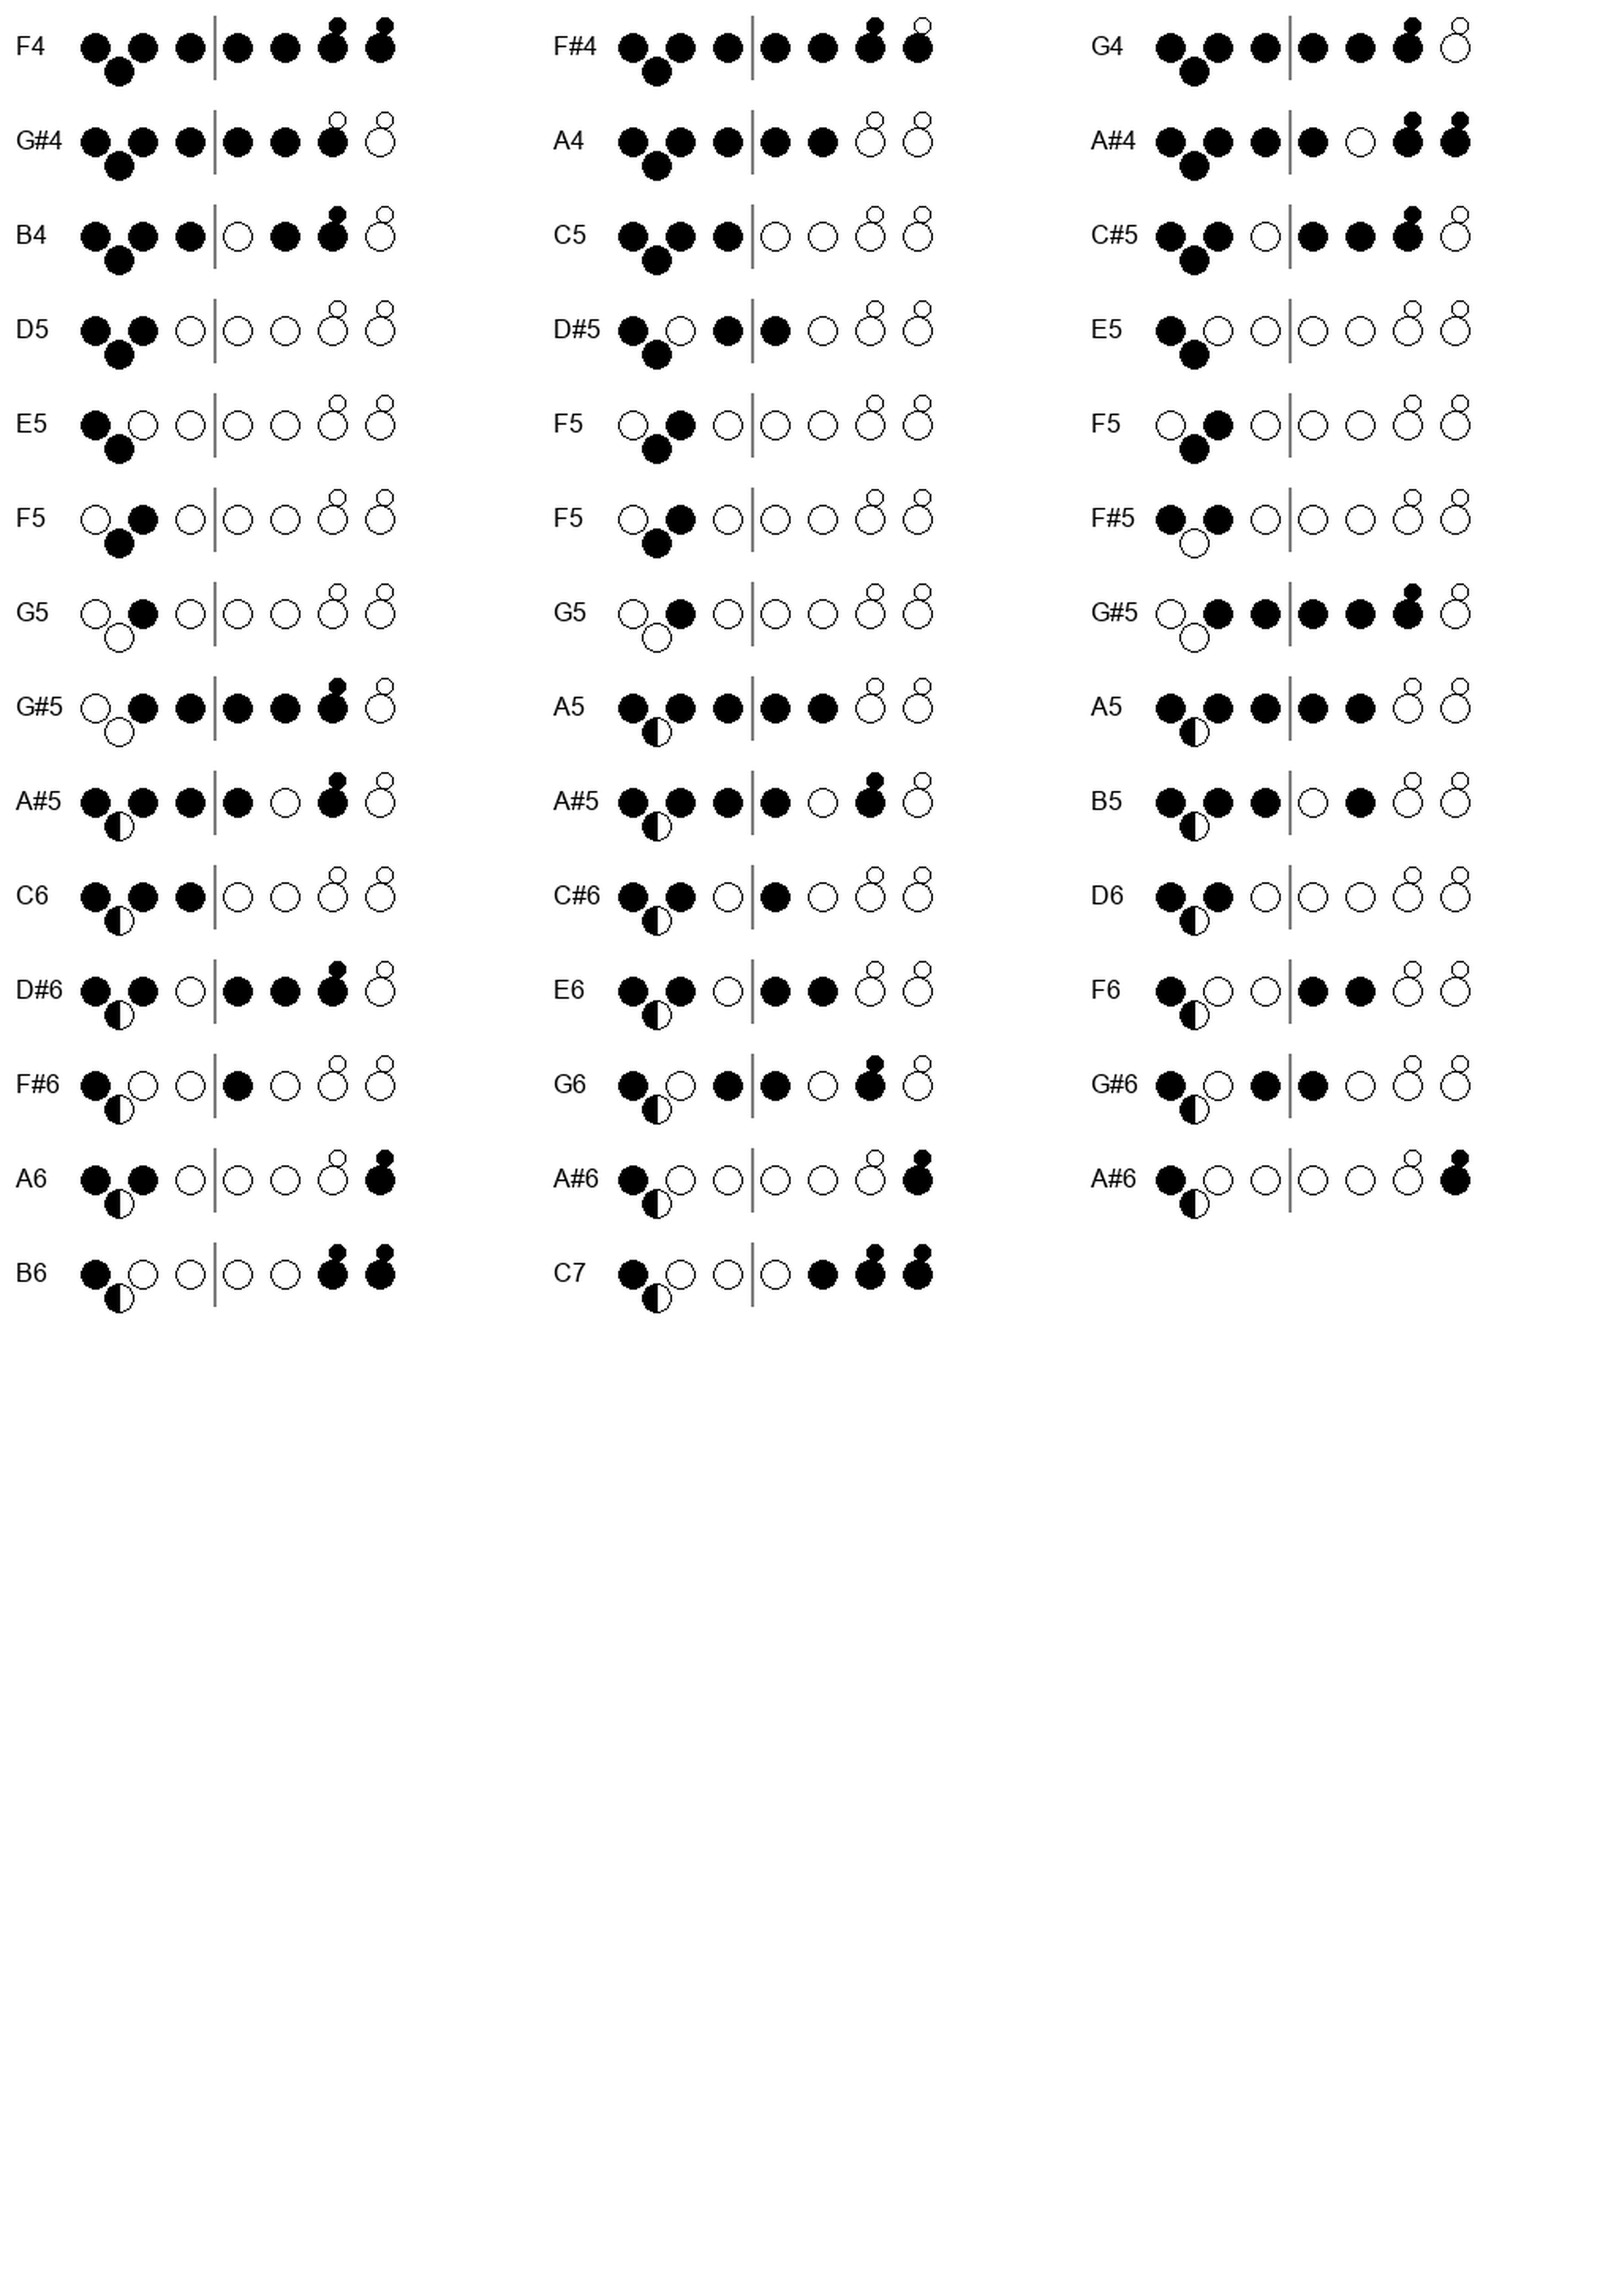
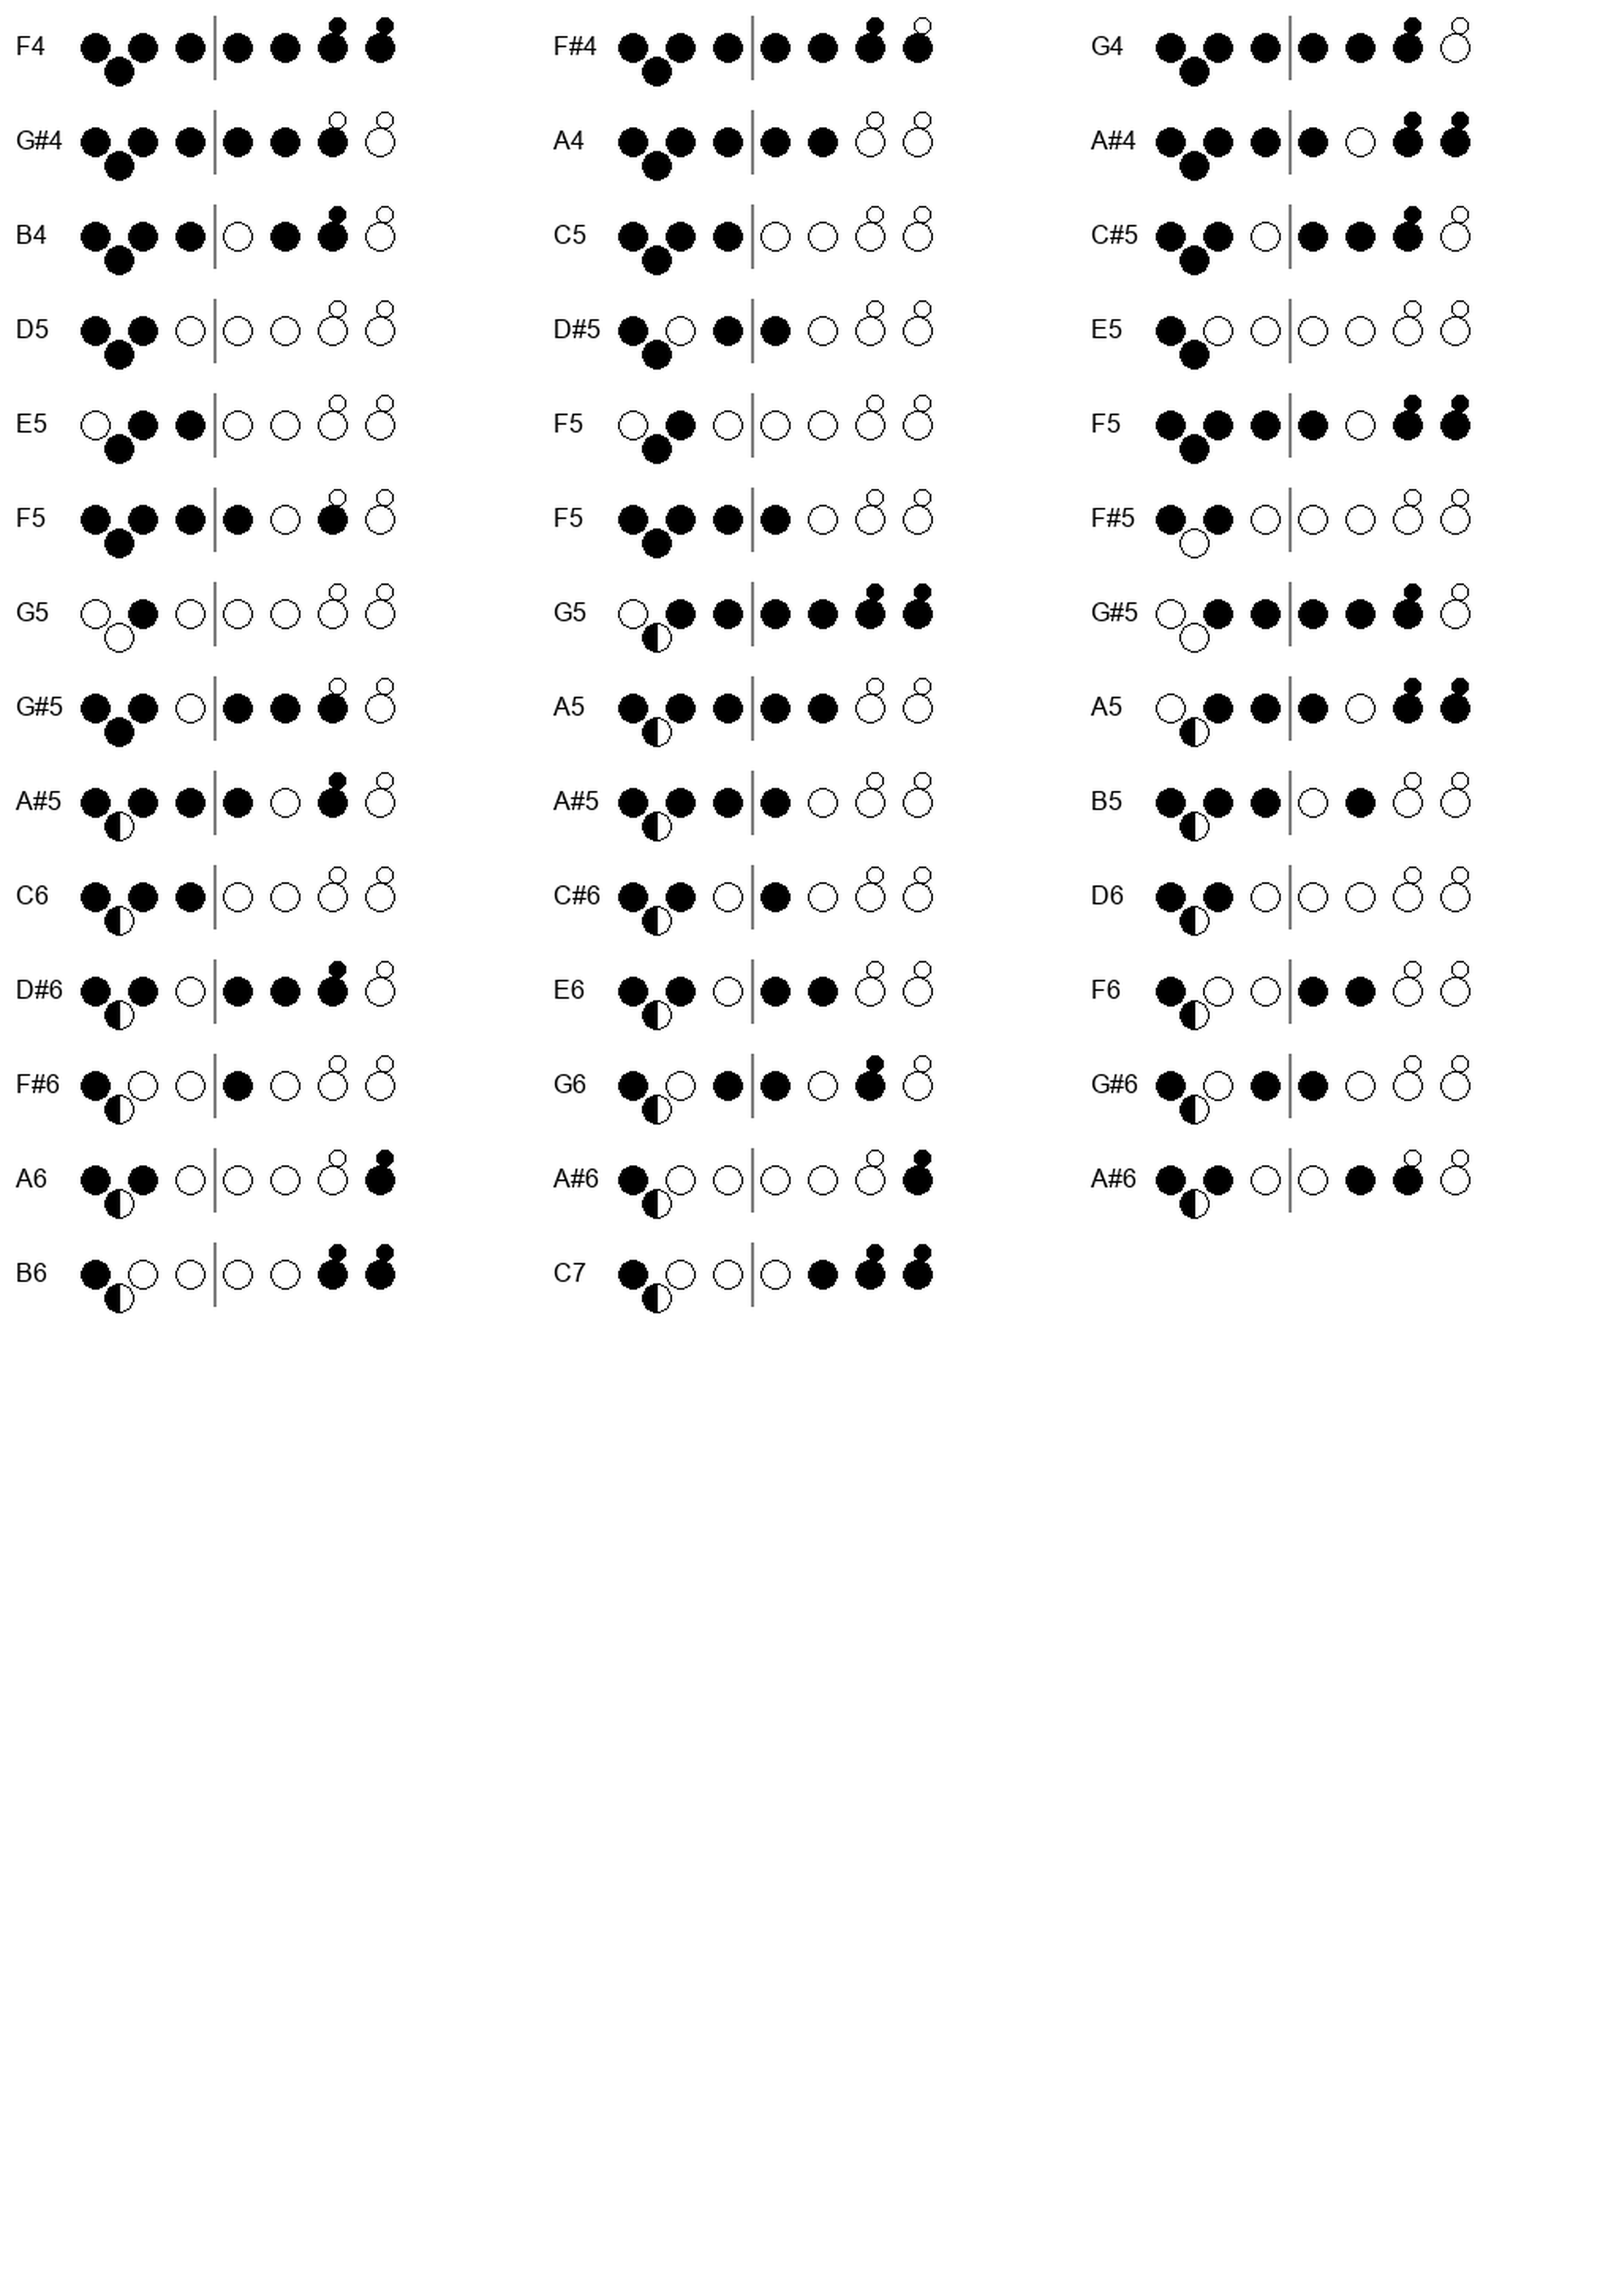
fixing bug with all variants of note drawn the same as the first one

diff --git a/FingeringViz.py b/FingeringViz.py
@@ -111,10 +111,10 @@ class Flute:
 
 
 class FluteForPrint:
-    def __init__(self, note_fingering):
-        self.note_fingering = note_fingering
+    def __init__(self, fingering, note_name):
+        self.fingering = fingering
+        self.note_name = note_name
         self.image = self.draw_flute()
-
     def draw_flute(self):
         # Create an image with white background
         image_width = 340
@@ -131,9 +131,8 @@ class FluteForPrint:
             font = ImageFont.load_default()
 
         # Draw note name on the left
-        draw.text((text_offset, base_y - 10), self.note_fingering.note, fill='black', font=font)
-
-        for i, state in enumerate(self.note_fingering.fingerings[0].holes):
+        draw.text((text_offset, base_y - 10), self.note_name, fill='black', font=font)
+        for i, state in enumerate(self.fingering.holes):
             x = 30 + i * 30
             y = base_y
             is_octave = (i == 0)

diff --git a/FingeringEditor.py b/FingeringEditor.py
@@ -109,7 +109,7 @@ class FingeringGUI:
     def print_fingerings(self):
         img_directory = "img"
         os.makedirs(img_directory, exist_ok=True) 
-        
+
         # A4 dimensions at 300 DPI
         a4_width = 2480
         a4_height = 3508
@@ -152,7 +152,7 @@ class FingeringGUI:
         for note_variations in self.fingering_system.notes:
             for fingering in note_variations.fingerings:
                 if not fingering.is_empty():
-                    flute_image = FluteForPrint(note_variations).get_image()
+                    flute_image = FluteForPrint(fingering, note_variations.note).get_image()
                     resized_flute_image = flute_image.resize((final_image_width, final_image_height), Image.LANCZOS)
                     a4_image.paste(resized_flute_image, (x_offset, y_offset))
                     x_offset += final_image_width
